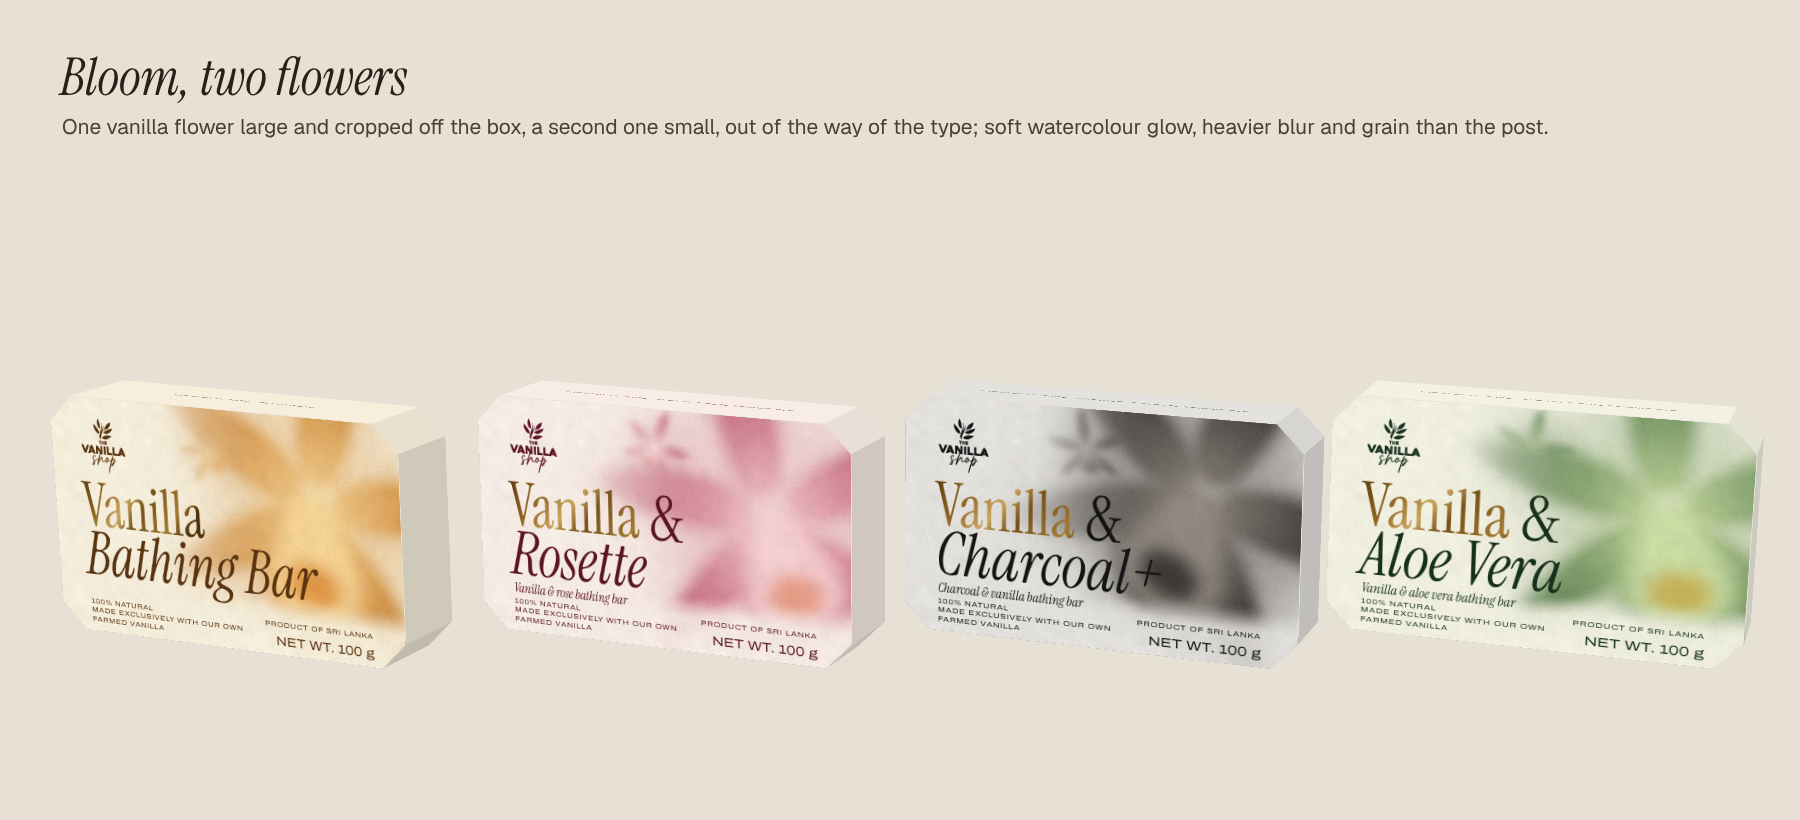
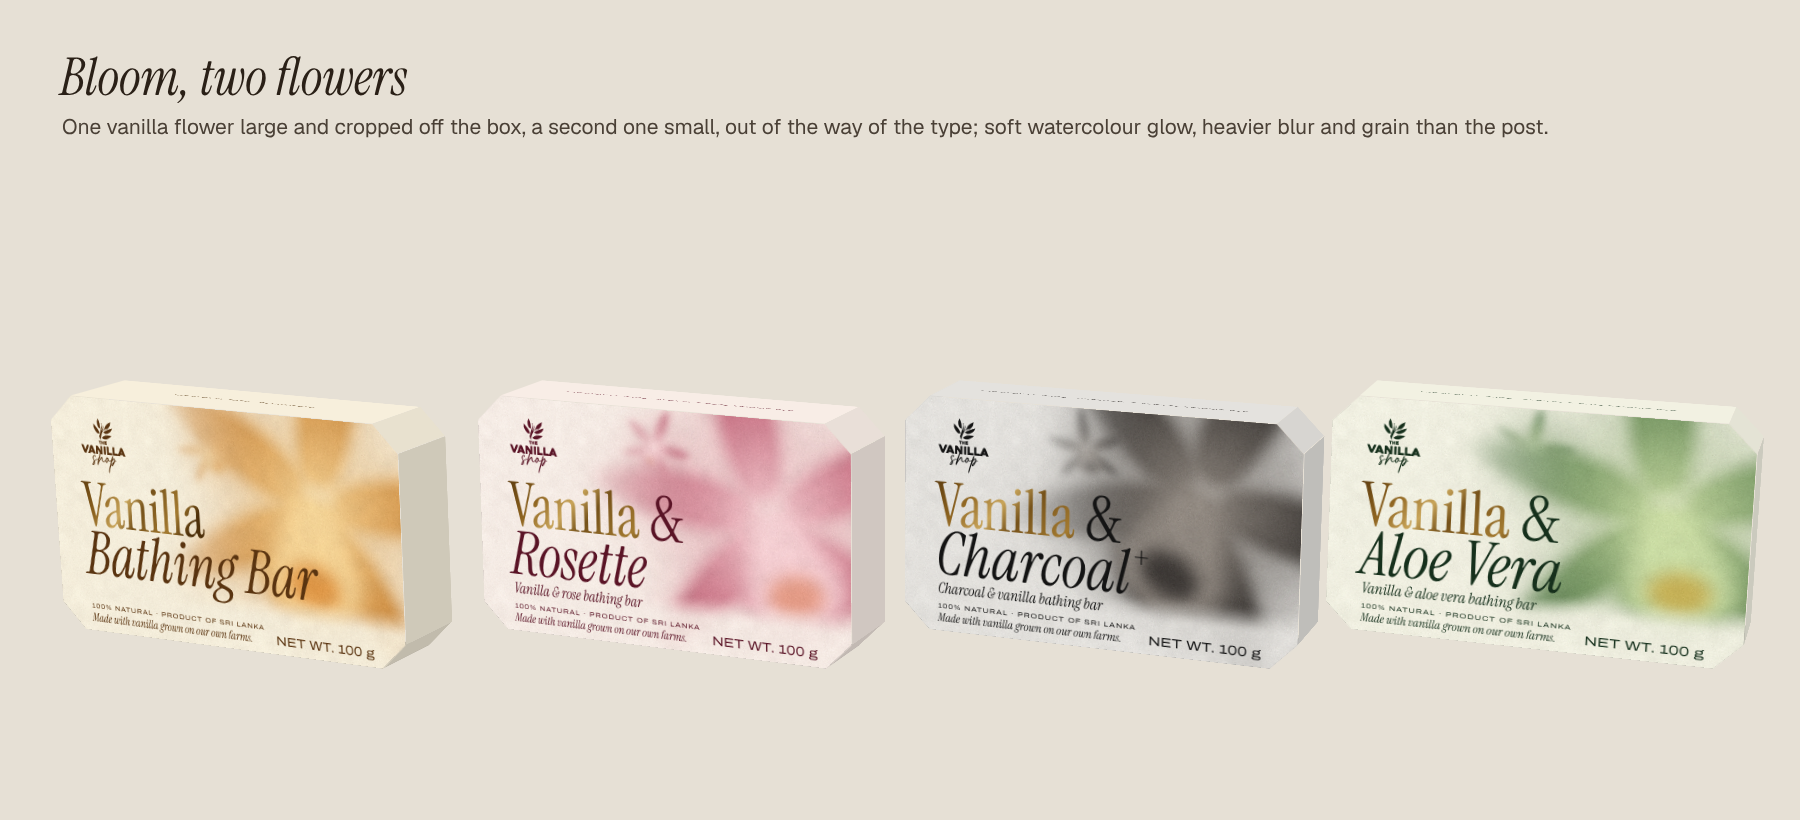
Soap: superscript plus, larger descriptor, calmer bottom copy with the farm-grown line
Claude-Session: https://claude.ai/code/session_01Psd6wLDi15Gf4F1fXEFmxS

diff --git a/vanilla-shop/studies/soap/bloom-duo/octo8.py b/vanilla-shop/studies/soap/bloom-duo/octo8.py
@@ -155,12 +155,10 @@ def front_bloom(k,art=None):
     b=[f'<image href="file:///tmp/claude-0/-home-user-PersonalEventPlanner305App/0712b206-ea71-562e-9a83-45f8f096455f/scratchpad/soap/b3/{art}" x="-7" y="-7" width="150" height="95" preserveAspectRatio="none"/>',
        logo(x+9,16,18,ink),
        f'<text x="{x-0.8}" y="44" font-family="ISR" font-size="21" fill="url(#foil2)">Vanilla<tspan fill="{ink}">{l1[7:]}</tspan></text>',
-       f'<text x="{x-0.8}" y="61" font-family="IS" font-size="21" fill="{ink}">{l2}</text>',
-       (f'<text x="{x}" y="67.2" font-family="IS" font-size="4.6" fill="{ink}">{FD[k]}</text>' if k!='vanilla' else ''),
-       f'<text x="{x}" y="71.4" font-family="AE" font-size="2.4" fill="{ink}" letter-spacing="0.25">100% NATURAL</text>',
-       f'<text x="{x}" y="74.5" font-family="AE" font-size="2.4" fill="{ink}" letter-spacing="0.25">MADE EXCLUSIVELY WITH OUR OWN</text>',
-       f'<text x="{x}" y="77.6" font-family="AE" font-size="2.4" fill="{ink}" letter-spacing="0.25">FARMED VANILLA</text>',
-       f'<text x="124" y="71.4" font-family="AE" font-size="2.4" fill="{ink}" letter-spacing="0.25" text-anchor="end">PRODUCT OF SRI LANKA</text>',
+       f'<text x="{x-0.8}" y="61" font-family="IS" font-size="21" fill="{ink}">{l2.rstrip("+")}'+('<tspan font-family="ISR" font-size="11" dx="0.8" dy="-8.5">+</tspan>' if l2.endswith('+') else '')+'</text>',
+       (f'<text x="{x}" y="67.8" font-family="IS" font-size="5.2" fill="{ink}">{FD[k]}</text>' if k!='vanilla' else ''),
+       f'<text x="{x}" y="72.9" font-family="AE" font-size="2.3" fill="{ink}" letter-spacing="0.3">100% NATURAL · PRODUCT OF SRI LANKA</text>',
+       f'<text x="{x}" y="77.6" font-family="IS" font-size="4.1" fill="{ink}">Made with vanilla grown on our own farms.</text>',
        f'<text x="124" y="77.6" font-family="AE" font-size="4.4" fill="{ink}" text-anchor="end">NET WT. 100 g</text>']
     return (f'<svg xmlns="http://www.w3.org/2000/svg" viewBox="0 0 {W} {H}" width="100%" height="100%"><defs>{FOIL2}<clipPath id="oc"><path d="{octa()}"/></clipPath></defs>'
             f'<g clip-path="url(#oc)">{"".join(b)}</g></svg>')

diff --git a/vanilla-shop/studies/soap/bloom-duo/TEXT.md b/vanilla-shop/studies/soap/bloom-duo/TEXT.md
@@ -18,3 +18,16 @@ The back of the charcoal box shows the same copy and the same incomplete ingredi
 
 To confirm: net weight (100 g on the dieline vs 114 g on the website); each soap's full INCI list; barcodes,
 MRP, dates and TFM for Charcoal and Aloe.
+
+## Approved direction (front copy as now set)
+
+- Name: "Vanilla" in gold foil, then the variant in the soap's colour (Bathing Bar / & Rosette / & Charcoal+ / & Aloe Vera).
+  The + on Charcoal+ is set as a superscript. What it stands for is still to be decided (see below).
+- Descriptor (italic, larger): Vanilla & rose / Charcoal & vanilla / Vanilla & aloe vera bathing bar.
+- 100% NATURAL · PRODUCT OF SRI LANKA
+- "Made with vanilla grown on our own farms." (reworded from "Made exclusively with our own farmed vanilla";
+  confirm the sourcing claim is accurate for every bar.)
+- NET WT. 100 g (confirm against 114 g on the website).
+
+Before print: decide what the + means (a back-panel line can explain it); run one physical foil proof on the actual board,
+especially gold over the honey Vanilla box; proof at actual size.
